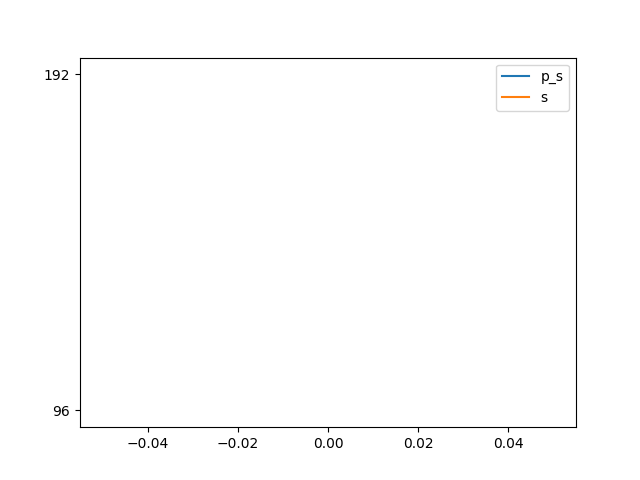
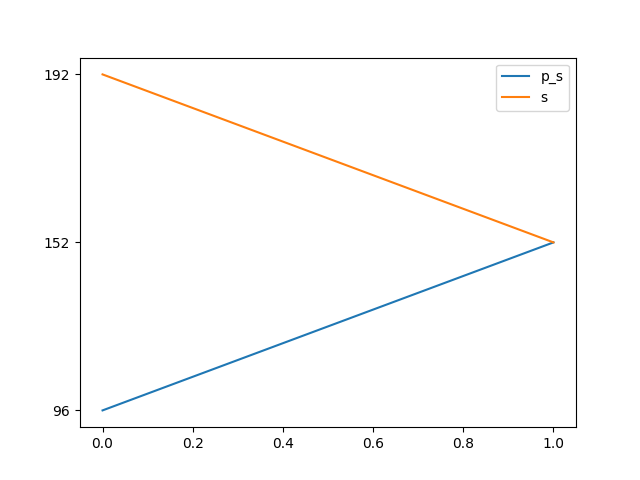
0x0001

diff --git a/benchmark.md b/benchmark.md
@@ -4,3 +4,7 @@ Synthesising 0x0000 pexact:96 r=4 exact:192 r=4
 
 ![Bench_1](benchmark_r.png  width=50) ![Bench_2](benchmark_s.png  width=50)
 
+Synthesising 0x0001 pexact:152 r=3 exact:152 r=3
+
+![Bench_1](benchmark_r.png  width=50) ![Bench_2](benchmark_s.png  width=50)
+
